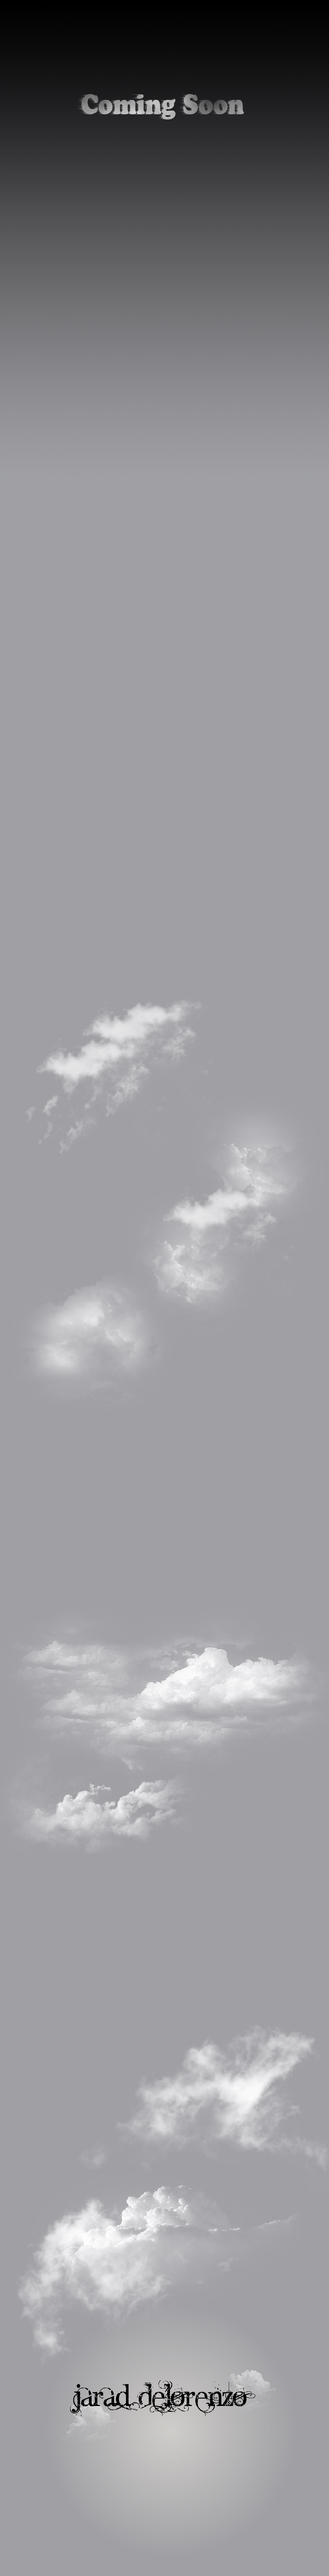
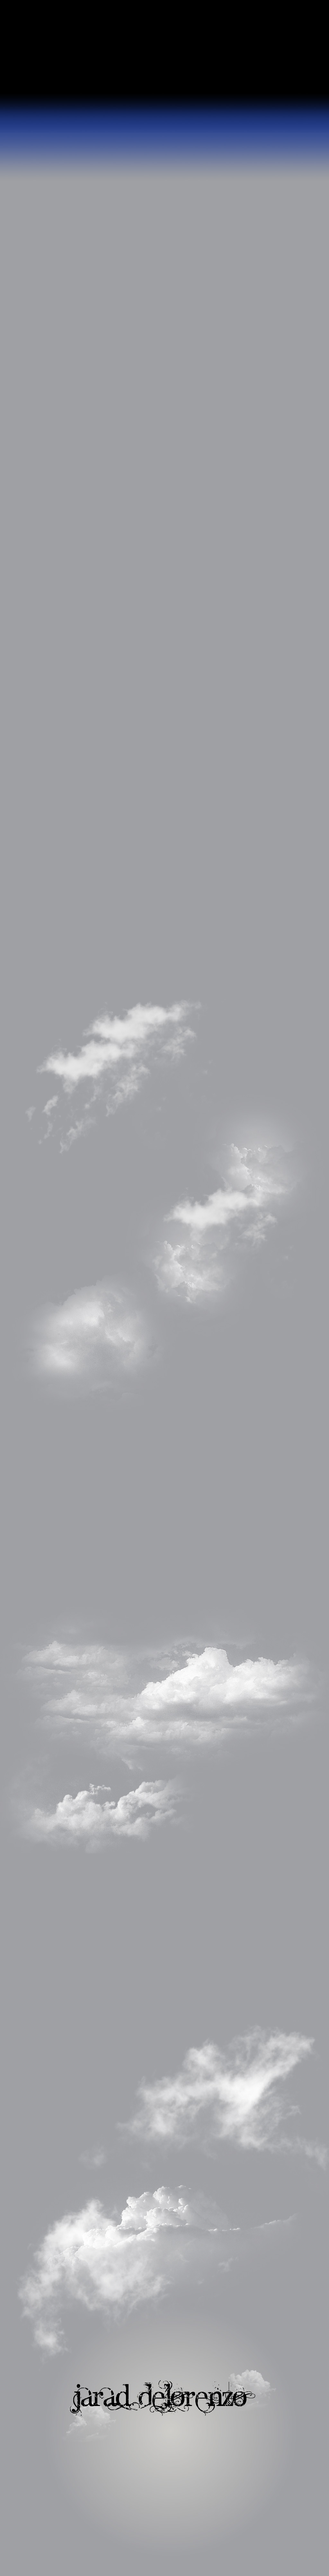
Added an atmosphere effect for awesomeness. Fixed margin-gradient problem. Made ropes move down the canvas instead of moving the canvas itself

Changed region(s): [[0.0, 0.0312, 1.0, 0.1562]]

diff --git a/js/epcDanglies.js b/js/epcDanglies.js
@@ -154,13 +154,19 @@ b2DebugDraw.prototype.DrawSolidPolygon=function(vertices,numVertices,c, body) {
 //  this.m_sprite.stroke();
 //  this.m_sprite.closePath()
   var rotationStyle = 'rotate(' + (-body.m_xf.GetAngle() * 57.2957795) + 'deg)';
-  jQuery("#" + body.m_userData)
+  var sprite = jQuery("#" + body.m_userData);
+  jQuery(sprite)
     .css("position", "absolute")
     .css("-moz-transform", rotationStyle)
     .css("-webkit-transform", rotationStyle)
     .css("transform", rotationStyle)
     .css("left", (body.m_xf.position.x*this.m_drawScale)- (this.m_drawScale)  + "px")
     .css("top",  this.Y(body.m_xf.position.y*this.m_drawScale)-575 + EPC.getBgOffset() + "px");
+    
+  if(jQuery(sprite).css("top") > jQuery("canvas").css("height")) {
+    jQuery(sprite).css("display", "none");
+  }
+  jQuery("img[id*='cloud']")[0].top = EPC.bgPosOffset; //TODO: Doesn't work
 }
 
 b2World.prototype.DrawJoint=function(a) {
@@ -190,6 +196,16 @@ switch(a.m_type){
     this.m_debugDraw.DrawSegment(h,g,f);
     c!=this.m_groundBody&&this.m_debugDraw.DrawSegment(e,g,f)
   }
+};
+
+b2DebugDraw.prototype.DrawSegment=function(a,b,c){
+  this.m_sprite.lineWidth=this.m_lineThickness;
+  this.m_sprite.strokeSyle=this.ColorStyle(c,this.m_alpha);
+  this.m_sprite.beginPath();
+  this.m_sprite.moveTo(a.x*this.m_drawScale,this.Y(a.y*this.m_drawScale) + EPC.getBgOffset());
+  this.m_sprite.lineTo(b.x*this.m_drawScale,this.Y(b.y*this.m_drawScale) + EPC.getBgOffset());
+  this.m_sprite.stroke();
+  this.m_sprite.closePath()
 };
 
 b2DebugDraw.prototype.DrawSolidCircle=function(a,b,c,d) {

diff --git a/js/epc.js b/js/epc.js
@@ -10,10 +10,7 @@ var EPC = (function () {
       left: "+=" + canvasWidth,
       top: "+=" + bgPosOffset
     },{
-      duration: layer,
-      step: function(now, fx) {
-        fx.elem.top = bgPosOffset
-      }
+      duration: layer
     });    
   }
   
@@ -77,8 +74,8 @@ var EPC = (function () {
         duration: 6000,
         easing: "easeInOutExpo"
       });
-      jQuery("canvas, img.sprite").animate({
-        top: "+=7250px"
+      jQuery("body").animate({
+        backgroundPosition: "(0 0)"
       }, {
         duration: 6000,
         easing: "easeInOutExpo"

diff --git a/css/home.css b/css/home.css
@@ -1,6 +1,11 @@
 body {
   text-align: center;
-  background-color: #9fa0a3;  
+/*  background-color: #9fa0a3;  */
+background-image: url("../images/bg-margin.png");
+background-position: 0 -7255px;
+background-repeat: repeat-x;
+width: 100%;
+height:100%;
 }
 
 #wrapper {

diff --git a/index.php b/index.php
@@ -22,9 +22,9 @@
     <div id="wrapper">
       <canvas id="canvas" width="1024" height="600"></canvas>
     </div>
-    <div id="canvas">
+<!--    <div id="canvas">-->
 <!--      <div id="bird"></div>-->
-    </div>
+<!--    </div>-->
     <div id="content"></div>
     <div class="wrapper">
       <img id="work-stuff" class="sprite" src="images/canvas/work-stuff.png"></img>
